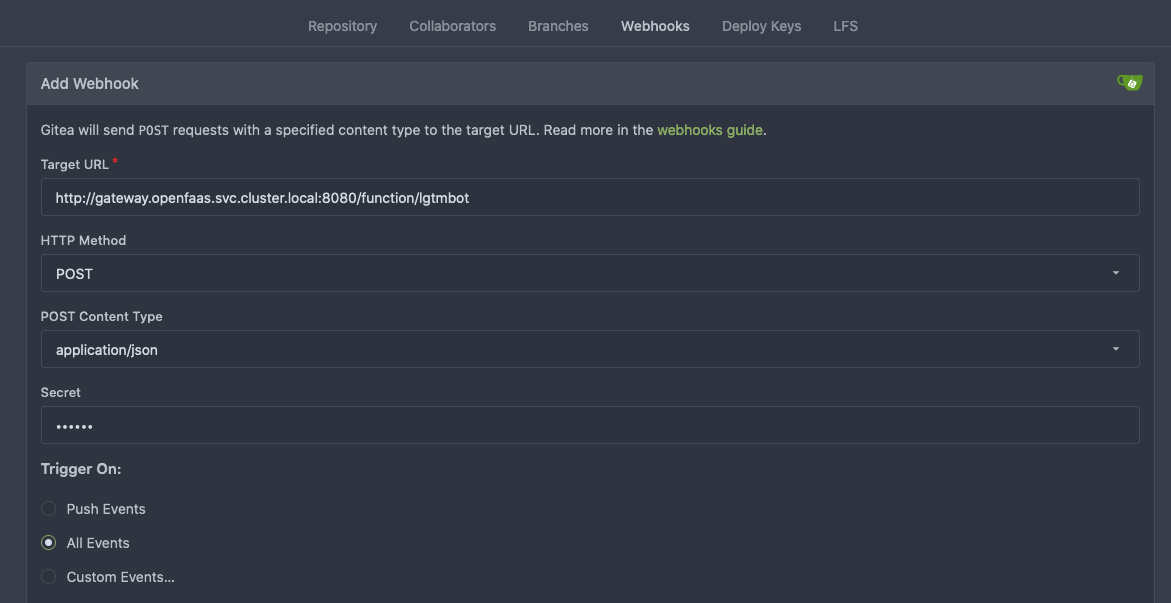
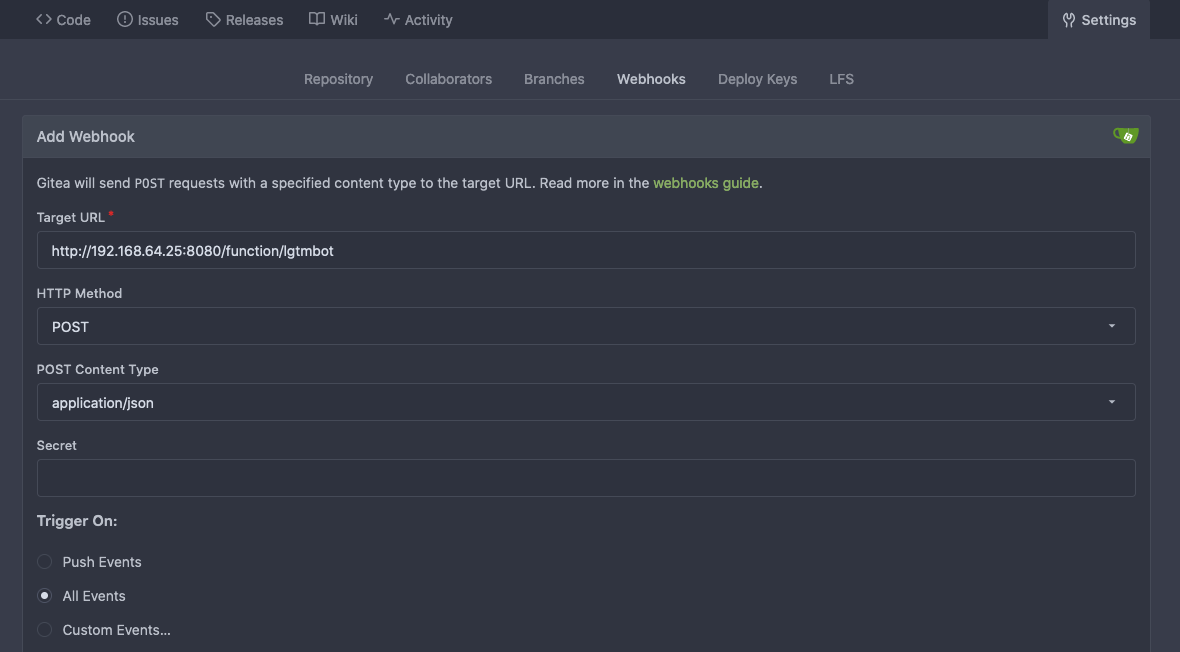
switch to use faasd

diff --git a/_posts/2021-01-31-gitea-faas.md b/_posts/2021-01-31-gitea-faas.md
@@ -1,5 +1,5 @@
 ---
-title: "Gitea automation using OpenFaaS"
+title: "Extend and automate self-hosted Gitea with functions"
 description: "Switching to Gitea doesn’t mean having to give up your bot automations"
 date: 2021-01-31
 image: /images/2021-01-gitea/gitea-sticker-header.jpg
@@ -23,45 +23,112 @@ In this post we will walk through building a simple bot to label pull-requests.
 
 ## Pre-requisites
 
-For the purposes of this guide we'll use a local install of Kubernetes, but any Kubernetes cluster could be used. The tutorial should take you less than 15-30 minutes to try.
+For the purposes of this guide we'll create a local virtual machine and install faasd on it, but these instructions can be extended to use a Digital Ocean Droplet, or even a Raspberry Pi. The tutorial should take you less than 15-30 minutes to try.
 
-A quick way to install all the tools you need is to use the [arkade](https://get-arkade.dev) cli tool.
+### Create a Virtual Machine and install faasd
 
-```bash
-# Get arkade, and move it to $PATH
-curl -sLS https://dl.get-arkade.dev | sh
-sudo mv arkade /usr/local/bin/
-
-# Run Kubernetes locally
-arkade get kind
-
-# OpenFaaS CLI
-arkade get faas-cli
-
-# Create a cluster
-kind create cluster
-
-# Install OpenFaaS
-arkade install openfaas
-
-# Install Gitea
-arkade install gitea
-```
-
-Next, you'll need to portforward both Gitea, and OpenFaaS, as well as login into the OpenFaaS gateway with faas-cli
+[Multipass](https://multipass.run) is a lightweight virtual machine runner, think docker-compose but for ubuntu virtual machines. We'll use this to get a virtual machine with faasd up and running quickly.
 
 ```bash
-# Forward the OpenFaaS gateway to your machine
-kubectl rollout status -n openfaas deploy/gateway
-kubectl port-forward -n openfaas svc/gateway 8080:8080 &
+# Install multipass
+## On macOS you can install multipass with the brew command
+brew install multipass
+## or, on Linux, you can install using the snap command
+snap install multipass
 
-# If basic auth is enabled, you can now log into your gateway:
-PASSWORD=$(kubectl get secret -n openfaas basic-auth -o jsonpath="{.data.basic-auth-password}" | base64 --decode; echo)
-echo -n $PASSWORD | faas-cli login --username admin --password-stdin
+# Get VM Bootstrap instructions
+wget https://raw.githubusercontent.com/openfaas/faasd/master/cloud-config.txt
 
-# Forward the Gitea application to your machine
-kubectl -n default port-forward svc/gitea-http 3000:3000 &
+# Generate a key for SSH-ing into your VM
+ssh-keygen -t rsa -b 4096 -C "faasd" -f $PWD/faasd_ssh
+
+# Add your local key to the cloud-init file
+awk "NR==4 {\$0=\"  - $(cat faasd_ssh.pub)\"} { print }" cloud-config.txt > tmp
+mv tmp cloud-config.txt
+
+# Run a local VM
+multipass launch \
+  --cloud-init cloud-config.txt \
+  --name faasd
+
+# Verify your VM has been started
+multipass info faasd
 ```
+
+### Connect faas-cli to your faasd install
+
+Now that faasd is up and running, we'll need to login into the gateway with the `faas-cli`.
+
+```bash
+# Install faas-cli on your host machine
+curl -sSLf https://cli.openfaas.com | sh
+
+# Get IP
+export VM_IP=$(multipass info faasd | grep IPv4 | awk '{print $2}')
+echo "Your IP is: $VM_IP"
+
+# Login into the faasd gateway
+export FAAS_PASSWORD=$(multipass exec faasd sudo cat /var/lib/faasd/secrets/basic-auth-password)
+export OPENFAAS_URL="http://$VM_IP:8080"
+echo $FAAS_PASSWORD | faas-cli login --password-stdin
+
+# Test that faas-cli connects to gateway
+faas-cli list
+```
+
+### Install Gitea on your Virtual Machine
+
+Next we'll need to install Gitea it up and running. This example uses the bleeding edge nightly version, but for production use you may wish to use the current stable version of Gitea.
+
+```bash
+# SSH into your VM
+ssh -i ./faasd_ssh ubuntu@$VM_IP
+
+# Download Gitea nightly version
+wget https://dl.gitea.io/gitea/master/gitea-master-linux-amd64
+mv gitea-master-linux-amd64 gitea
+chmod +x gitea
+
+# Create base Gitea configuration
+cat >/home/ubuntu/app.ini <<EOL
+RUN_USER = ubuntu
+[server]
+DOMAIN = $(hostname -I | awk '{print$1}')
+DISABLE_SSH=true
+[database]
+DB_TYPE = sqlite3
+PATH = /home/ubuntu/gitea.db
+[security]
+INSTALL_LOCK = true
+[oauth2]
+ENABLE=false
+EOL
+
+# Create Gitea database
+./gitea --config $(pwd)/app.ini migrate
+
+# Create a Gitea user
+export GITEA_PASSWORD="TEMPOPENFAASPASSWORD"
+./gitea --config $(pwd)/app.ini admin user create --admin --name gitea_admin --password $GITEA_PASSWORD --email gitea_admin@example.com
+
+# Run Gitea
+screen -d -m ./gitea --config $(pwd)/app.ini web
+
+# Exit out of the SSH connection
+exit
+```
+
+### Sign into Gitea and create test repo
+
+Finally after Gitea is installed, we'll need to verify the installation. To do this we will open up the Gitea interface in the browser and login into it.
+
+In the install step we created an admin user with the username `gitea_admin` and password `TEMPOPENFAASPASSWORD`, we will take those and go to the login page at http://$VM_IP:3000/user/login
+
+![gitea login page screenshot](/images/2021-01-gitea/gitea_login_screenshot.png)
+
+Once logged in, we will create a git repository so when we need to add webhooks to it later it will be ready. In the top navigation bar we can select the `+` dropdown, and click the "New Repository" link. When we get to the new repository page we will name the repo `test_repo` and check the "Initialize Repository" option, just to have an example repository for testing purposes.
+
+![screenshot to create a repository in gitea](/images/2021-01-gitea/create_repo_screenshot.png)
 
 ## Build and deploy the Gitea bot function
 
@@ -256,28 +323,26 @@ With the function now built, now it is time to deploy the function. First you'll
       GO111MODULE: on
     secrets:
       - webhook-secret # random string generated by you
-      - gitea-host # host of your gitea instance, ex. https://gitea.example.com/
-      - gitea-token # gitea api token generated from https://gitea.example.com/user/settings/applications
+      - gitea-host # host of your gitea instance, ex. http://$VM_IP:3000/
+      - gitea-token # gitea api token generated from http://$VM_IP:3000/user/settings/applications
 ```
 
 ```bash
 faas-cli secret create webhook-secret --from-literal "abc123"
-faas-cli secret create gitea-host --from-literal "http://gitea-http.default.svc.cluster.local:3000/"
+faas-cli secret create gitea-host --from-literal "http://$VM_IP:3000/" # Use IP from setup
 faas-cli secret create gitea-token --from-literal "GET FROM GITEA GUI"
 
 faas-cli up -f lgtmbot.yml
 
 ```
 
-Finally, we need to configure the repo in Gitea that you would like to manage with this function. This can be done by going to the webhooks settings of the repo (ex https://gitea.example.com/org/repo/settings/hooks), and creating a new Gitea webhook with the secret being the one you set above.
+Finally, we need to configure the repo in Gitea that you would like to manage with this function. This can be done by going to the webhooks settings of the repo (ex http://$VM_IP:3000/gitea_admin/test_repo/settings/hooks), and creating a new Gitea webhook with the secret being the one you set above.
 
 ![setup webhook in gitea](/images/2021-01-gitea/setup_gitea_webhook.png)
 
 ## Wrapping Up
 
-Now that we’ve seen how to create a simple bot using OpenFaaS, from here we can build upon this base and make more complex actions. The next step could be transforming the [lockbot](https://www.openfaas.com/blog/schedule-your-functions/) from an earlier post to support Gitea as well, or even extending [Derek](https://github.com/alexellis/derek/) to support Gitea. The possibilities are endless. Eventually we could end up with a number of functions to rival the GitHub apps marketplace.
-
-This post uses OpenFaaS, but you could use faasd to keep the installation requirements a minimum.
+Now that we’ve seen how to create a simple bot using faasd, from here we can build upon this base and make more complex actions. The next step could be transforming the [lockbot](https://www.openfaas.com/blog/schedule-your-functions/) from an earlier post to support Gitea as well, or even extending [Derek](https://github.com/alexellis/derek/) to support Gitea. The possibilities are endless. Eventually we could end up with a number of functions to rival the GitHub apps marketplace.
 
 ### Taking it further
 
